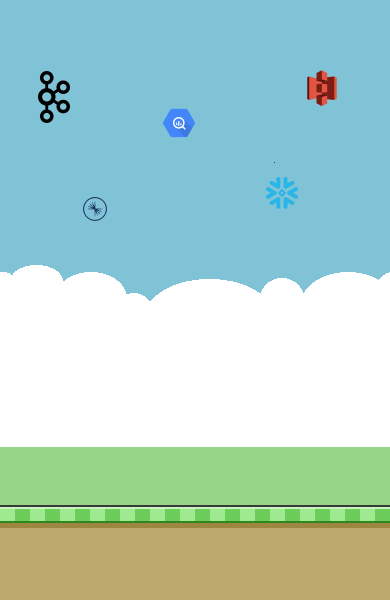
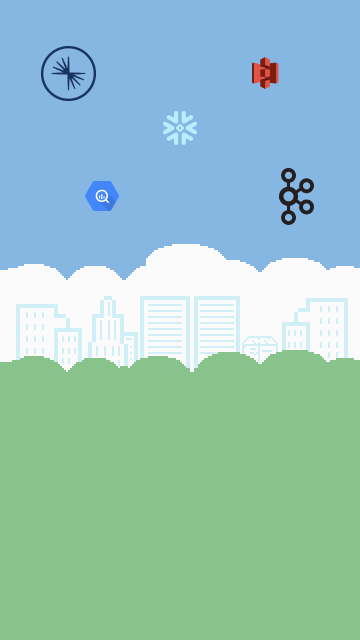
cosmetic changes

diff --git a/src/scenes/FlappyTinybirdScene.js b/src/scenes/FlappyTinybirdScene.js
@@ -30,27 +30,7 @@ export default class FlappyTinybirdScene extends Phaser.Scene {
         this.canvas = this.sys.game.canvas;
     }
 
-    getStatsFromTinybird() {
-        endpoints.player_stats_url.searchParams.append(
-            "name",
-            this.session.name
-        );
-
-        get_data_from_tinybird(endpoints.player_stats_url)
-            .then((data) => addDataToDOM(data, "player_stats"))
-            .catch((e) => e.toString());
-
-        get_data_from_tinybird(endpoints.top_10_url)
-            .then((data) => addDataToDOM(data, "top_10_leaderboard"))
-            .catch((e) => e.toString());
-
-        get_data_from_tinybird(endpoints.recent_player_stats_url)
-            .then((data) => addDataToDOM(data, "recent_player_stats"))
-            .catch((e) => e.toString());
-    }
-
     create() {
-        this.getStatsFromTinybird();
 
         this.background = this.add
             .tileSprite(0, 0, 400, 560, "bg")

diff --git a/src/scenes/EndGameScene.js b/src/scenes/EndGameScene.js
@@ -76,6 +76,16 @@ export default class EndGameScene extends Phaser.Scene {
     }
 
     getDataFromTinybird() {
+        endpoints.player_stats_url.searchParams.append(
+            "player_param",
+            this.session.name
+        );
+
+        endpoints.recent_player_stats_url.searchParams.append(
+            "player_param",
+            this.session.name
+        );
+        
         get_data_from_tinybird(endpoints.top_10_url)
             .then((r) => this.buildTopTen(r))
             .then((data) => addDataToDOM(data, "top_10_leaderboard"))

diff --git a/src/config.js b/src/config.js
@@ -19,7 +19,7 @@ export const config = {
         createContainer: true,
     },
     render: { pixelArt: true },
-    backgroundColor: "rgba(113, 197, 207,0)",
+    backgroundColor: "rgba(134, 182, 226,0)",
     scene: [MainMenuScene, EndGameScene, FlappyTinybirdScene],
 };
 
